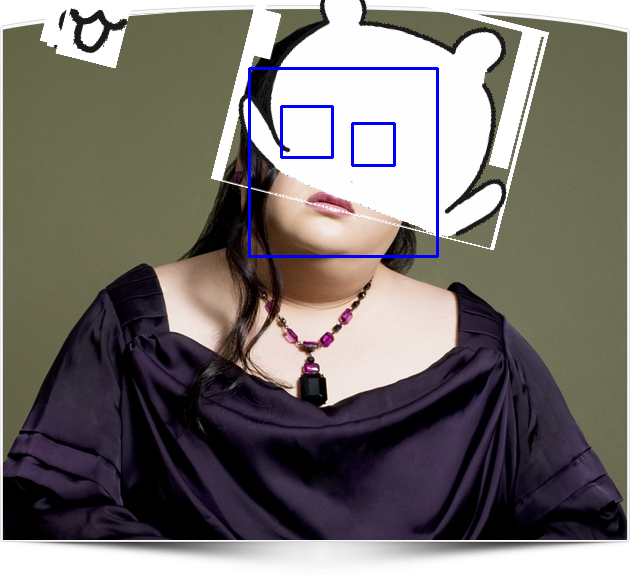
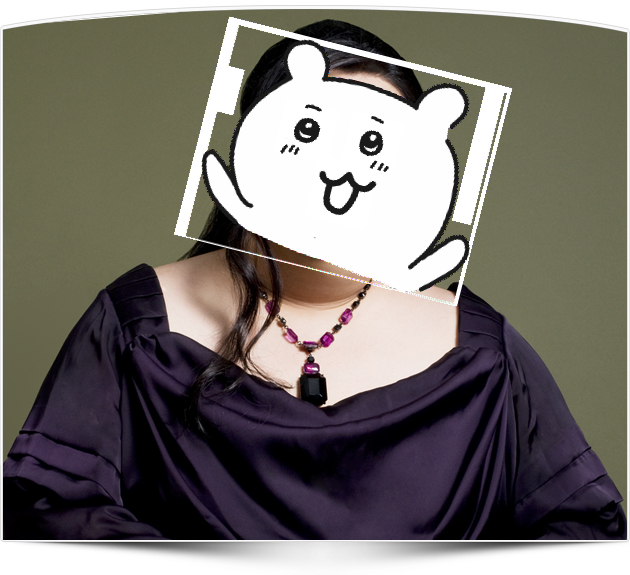
できたでいいや

Changed region(s): [[0.2714, 0.0, 0.8746, 0.5322], [0.0603, 0.0, 0.2111, 0.1183]]

diff --git a/compressor.py b/compressor.py
@@ -44,16 +44,16 @@ class compressor:
         leftsideeye_targets = eyes_targets[0]
         rightsideeye_targets = eyes_targets[1]
 
-        img_origin = self.face_paste(img_origin, face_targets, angle)
+        img_origin = self.face_paste(img_origin, face_targets[0], angle)
         img_origin = self.leftsideeye_targets(img_origin, leftsideeye_targets, angle)
         img_origin = self.rightsideeye_targets(img_origin, rightsideeye_targets, angle)
 
         mouth_targets = self.convert_mouth_rect(face_targets)
         img_origin = self.mouth_paste(img_origin, mouth_targets, angle)
 
-        self.print_rect_at_image(img_origin, face_targets[0])
-        self.print_rect_at_image(img_origin, leftsideeye_targets)
-        self.print_rect_at_image(img_origin, rightsideeye_targets)
+        # self.print_rect_at_image(img_origin, face_targets[0])
+        # self.print_rect_at_image(img_origin, leftsideeye_targets)
+        # self.print_rect_at_image(img_origin, rightsideeye_targets)
         # self.print_rect_at_image(img_origin, eyes_targets[3])
         # self.print_rect_at_image(img_origin, eyes_targets[2])
 
@@ -68,7 +68,7 @@ class compressor:
         cv2.imwrite(filename, img)
     
     def face_paste(self, back_img, rect, angle):
-        px, py, pw, ph = rect[0]
+        px, py, pw, ph = rect
         a = 1.2
         pw = math.floor(pw * a)
         ph = math.floor(ph * a)
@@ -81,8 +81,8 @@ class compressor:
         # face_after_size = (pw, ph)
         fore_img = cv2.resize(fore_img, face_after_size)
         # return self.putSprite_Affine(back_img, fore_img, (px,py), radian)
-        center = self.get_rotete_point(rect[0])
-        # print("faee_paste center")
+        center = self.get_rotete_point(fore_img.shape[:2])
+
         # print(center)
 
         return self.putSprite_Affine(back_img, fore_img, (px,py), rect, angle=angle, center=center)
@@ -95,7 +95,7 @@ class compressor:
         self.lefteye_ratio = pw / w
         face_after_size = self.get_after_size_eyes(w, h, pw, ph)
         fore_img = cv2.resize(fore_img, face_after_size)
-        center = self.get_rotete_point(rect)
+        center = self.get_rotete_point(fore_img.shape[:2])
         # print(rect)
         return self.putSprite_Affine(back_img, fore_img, (px,py),rect,  angle=angle, center=center)
         # return self.paste(back_img, fore_img, px, py)
@@ -109,21 +109,21 @@ class compressor:
             self.lefteye_ratio = pw / w
         face_after_size = self.get_after_size_eyes(w, h, pw, ph)
         fore_img = cv2.resize(fore_img, face_after_size)
-        center = self.get_rotete_point(rect)
+        center = self.get_rotete_point(fore_img.shape[:2])
         print("rightsideeye_targets center")
         print(center)
         print(rect)
         return self.putSprite_Affine(back_img, fore_img, (px,py), rect, angle=angle, center=center)
         # return self.paste(back_img, fore_img, px, py)
     def mouth_paste(self, back_img, rect, angle):
-        px, py, pw, ph = rect[0]
+        px, py, pw, ph = rect
         fore_img = cv2.imread("./images/parts/mouth.png",  cv2.IMREAD_UNCHANGED)
         h, w = fore_img.shape[:2]
         if (self.lefteye_ratio == 1.0):    # 初期化の値でない（汚い...ごめんなさい）
             self.lefteye_ratio = pw / w
         face_after_size = (pw, ph)
         fore_img = cv2.resize(fore_img, face_after_size)
-        center = self.get_rotete_point(rect[0])
+        center = self.get_rotete_point(fore_img.shape[:2])
         return self.putSprite_Affine(back_img, fore_img, (px,py), rect, angle=angle, center=center)
     def convert_mouth_rect(self, face_rect):
         fx, fy, fw, fh = face_rect[0]
@@ -131,7 +131,7 @@ class compressor:
         mx = math.floor(fx + (fw / 3))
         mw = math.floor(fw / 3)
         mh = math.floor(fh / 3)
-        return [[mx, my, mw, mh]]
+        return [mx, my, mw, mh]
 
     # def paste(self, back_img, fore_img, dx, dy):
     #     h, w = fore_img.shape[:2]
@@ -155,20 +155,34 @@ class compressor:
     #     return rect
 
     # duplicated
-    def get_rotete_point(self, rect):
-        px, py, pw, ph = rect
-        return [(pw/2), (ph/2)]
+    def get_rotete_point(self, shape):
+        cfh, cfw = shape
+        center = (cfw/2, cfh/2)
+        return center
         # return [float(px + pw), float(py + ph)]
         # return [(px + pw / 2), (py + ph / 2)]
         # return [(px + pw / 2), float(py + ph / 2)]
     def get_pos(self, center, x, y, shape, rect):
         h, w = shape
-        # px, py, pw, ph = rect[0]
+        px, py, pw, ph = rect
         # center = self.get_rotete_point(rect)
         # print(center)
         center_x, center_y = center
-        x = center_x + (w / 2)
-        y = center_y - h / 2
+        rect_center_x = px + pw / 2
+        x = rect_center_x - center_x
+        rect_center_y = py + ph / 2
+        y = rect_center_y - center_y
+        print("center_x, center_y")
+        print(center_x)
+        print(center_y)
+        print("rect_center_x/y")
+        print(rect_center_x)
+        print(rect_center_y)
+        print("x,y")
+        print(x)
+        print(y)
+        # x = center_x
+        # y = center_y - h / 2
         return (math.floor(x), math.floor(y))
         
     def putSprite_Affine(self, back, front4, pos, rect_target, angle=0, center=[0,0]):
